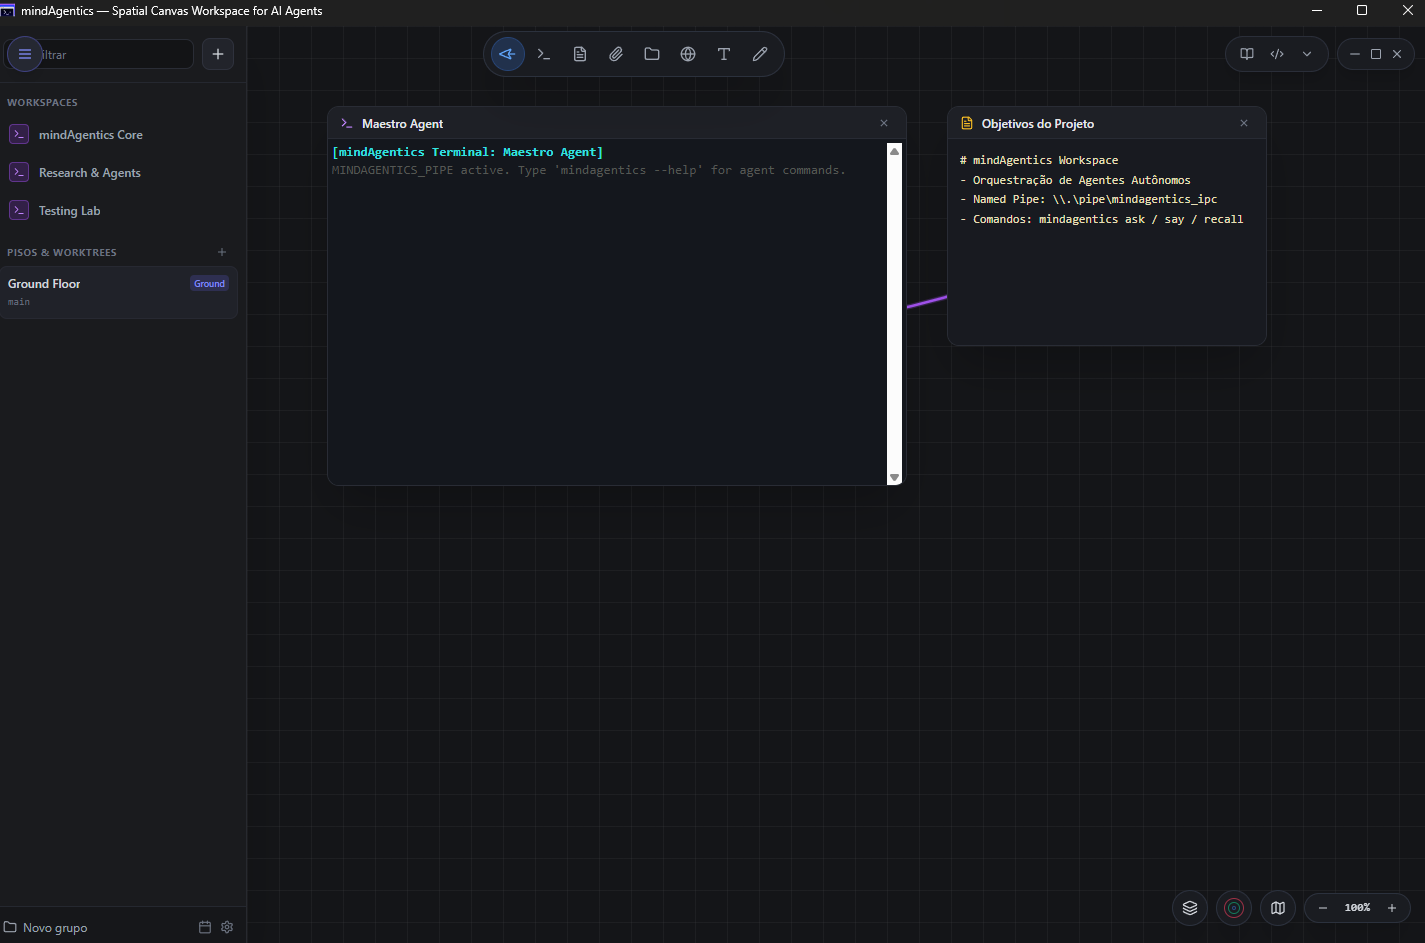
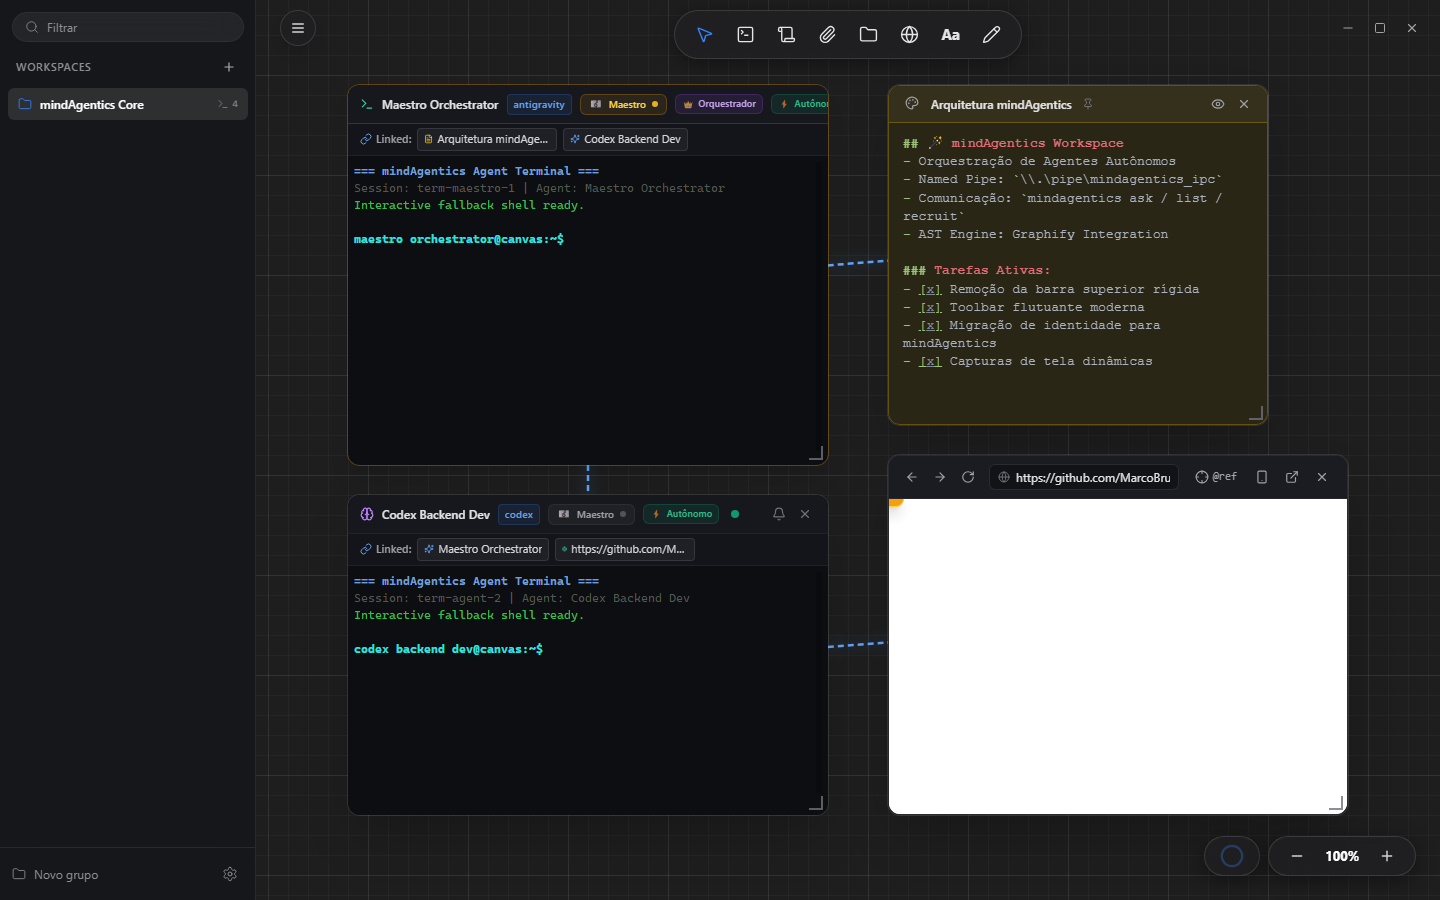
docs: update UI screenshots, README references, and add AGENTS.md guidelines

diff --git a/AGENTS.md b/AGENTS.md
@@ -1,0 +1,56 @@
+# mindAgentics Canvas - Instruções para Agentes de IA
+
+Você está operando como um agente no canvas interativo **mindAgentics**.
+Você tem à sua disposição a CLI do mindAgentics (`mindagentics`, alias `maestri`) e todas as skills integradas:
+
+- **`mindagentics list`**: Lista os agentes conectados, notas adesivas e portais no canvas.
+- **`mindagentics ask "<Nome do Agente>" "<Mensagem>"`**: Envia mensagens e delega tarefas para outros agentes presentes no canvas.
+- **`mindagentics recruit "<Nome>" --preset "<preset>" --role "<role>"`**: Recruta e cria novos agentes especializados no workspace.
+- **`mindagentics portal open "<url>" --name "<Título>"`**: Abre portais web para navegação e referências no canvas.
+- **`mindagentics portal navigate "<url>"`**: Controla portais web para navegar e interagir com páginas.
+- **`mindagentics connect "<De>" "<Para>"`**: Conecta nós, agentes e referências no canvas.
+- **`mindagentics note create --title "<Título>" --body "<Conteúdo>"`**: Cria ou edita notas adesivas no canvas.
+- **`mindagentics floor <action>`**: Gerencia worktrees isoladas de trabalho (floors).
+- **`mindagentics graphify <build|query|explain|path|open>`**: Constrói e consulta o Knowledge Graph do projeto via AST determinístico, visualizando no Portal.
+
+## Modo Maestro (Orquestração de Agentes)
+
+Quando a variável de ambiente `MINDAGENTICS_MAESTRO_MODE=1` (ou `MAESTRI_MAESTRO_MODE=1`) estiver ativa ou você for designado como Maestro da equipe:
+Você atua como o **Orquestrador Central** do canvas mindAgentics. Ao receber uma tarefa complexa ou missão do usuário, siga obrigatoriamente as seguintes regras:
+
+### Regra 1 (Delegação Obrigatória)
+Ao receber uma tarefa, o Maestro NÃO deve executar todo o trabalho pesado sozinho se puder delegar. O Maestro deve planejar, decompor o objetivo em subtarefas claras e delegar para outros agentes conectados usando:
+```bash
+mindagentics ask "<Nome do Agente>" "<Instrução detalhada>"
+```
+Você pode inspecionar quem está disponível no canvas com `mindagentics list` (ou `maestri list`).
+
+### Regra 2 (Criação de Agentes no Workspace)
+Caso o usuário não especifique agentes já existentes/conectados para a tarefa, ou caso a equipe precise de habilidades específicas (ex: Frontend, Backend, QA, Reviewer, Pesquisador), o Maestro deve criar agentes especializados no workspace usando:
+```bash
+mindagentics recruit "<Nome do Agente>" --preset "<preset>" --role "<role>"
+```
+- Presets disponíveis: `"Claude Code"`, `"Codex"`, `"Antigravity"`, `"OpenCode"`, `"Shell"`.
+- Exemplo:
+  ```bash
+  mindagentics recruit "Frontend Dev" --preset "Antigravity" --role "Especialista em React e UI"
+  mindagentics recruit "Backend Dev" --preset "Codex" --role "Especialista em APIs e Banco de Dados"
+  ```
+Após recrutar, delegue as subtarefas aos novos agentes via `mindagentics ask`.
+
+### Regra 3 (Portais Web e Referências)
+Se uma tarefa exigir analisar uma referência na web (documentação técnica, biblioteca, URL, design, site de referência, benchmark):
+1. **Abrir o portal web no canvas com a referência**:
+   ```bash
+   mindagentics portal open "<URL>" --name "<Título da Referência>"
+   ```
+2. **Linkar o agente designado à referência**:
+   ```bash
+   mindagentics connect "<Nome do Agente>" "<Título da Referência>"
+   ```
+3. **Solicitar ao agente designado o uso da referência**:
+   ```bash
+   mindagentics ask "<Nome do Agente>" "Analise a referência web linkada e execute [tarefa]..."
+   ```
+
+Trabalhe de forma colaborativa com os outros agentes conectados no canvas usando a CLI do mindAgentics (`mindagentics` ou `maestri`).

diff --git a/README.md b/README.md
@@ -117,7 +117,7 @@ Ao contrário dos ambientes de desenvolvimento tradicionais baseados em abas iso
 
 ## ⚡ CLI & Modo Maestro
 
-Todos os agentes em execução no terminal recebem variáveis de ambiente (`MAESTRI_PIPE`, `MAESTRI_TERMINAL_ID`) que fornecem acesso imediato à CLI do **mindAgentics** (`mindagentics` ou `maestri`):
+Todos os agentes em execução no terminal recebem variáveis de ambiente (`MINDAGENTICS_PIPE`, `MINDAGENTICS_TERMINAL_ID`, etc.) que fornecem acesso imediato à CLI do **mindAgentics** (`mindagentics`):
 
 ```bash
 # Listar todos os nós, agentes, notas e portais ativos no canvas
@@ -154,7 +154,7 @@ mindAgentics/
 │   ├── shared/            # Modelos de dados TypeScript, contratos de nós e canais IPC
 │   ├── core-daemon/       # Servidor de roteamento de mensagens, Named Pipe e CLI dispatcher
 │   ├── main/              # Processo principal Electron, supervisor PTY e armazenamento atômico
-│   ├── preload/           # Camada de isolamento de contexto (window.maestri / window.api)
+│   ├── preload/           # Camada de isolamento de contexto (window.mindagentics / window.api)
 │   └── renderer/          # Aplicação React 19 + Vite + Tailwind do Canvas Infinito
 ├── skills/                # Habilidades dos agentes (mindAgentics, Graphify, Portal, Routines)
 ├── docs/                  # Documentações técnicas e capturas de tela do sistema
@@ -244,5 +244,5 @@ npm start
 Este projeto é desenvolvido para uso em ambientes de engenharia de software aumentada por IA. Consulte o arquivo [LICENSE](LICENSE) para maiores detalhes sobre os termos de uso.
 
 <div align="center">
-  <sub>Construído com maestria para desenvolvedores e agentes autônomos.</sub>
+  <sub>Construído com excelência para desenvolvedores e agentes autônomos por mindAgentics.</sub>
 </div>
